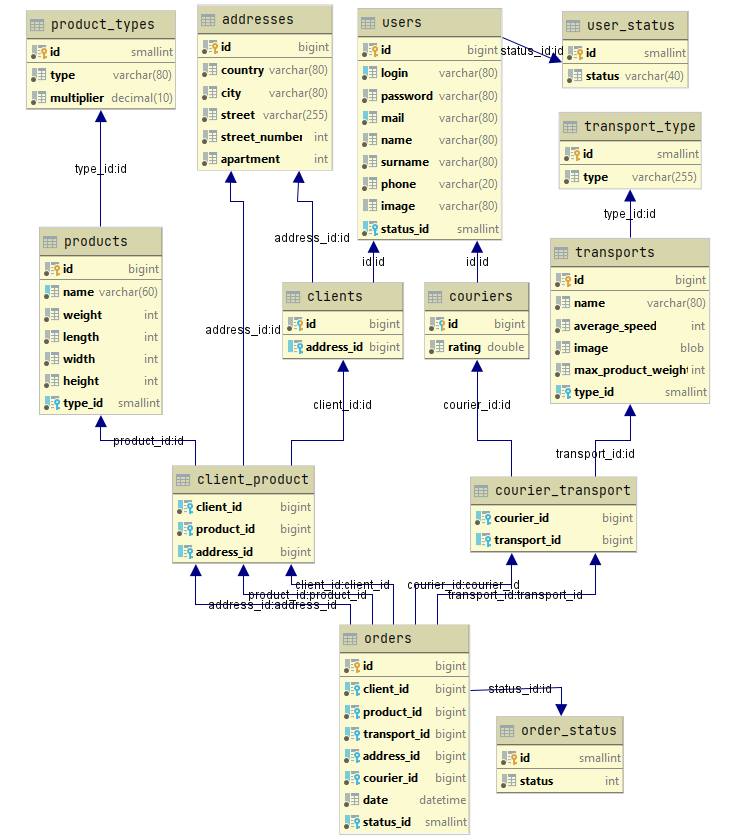
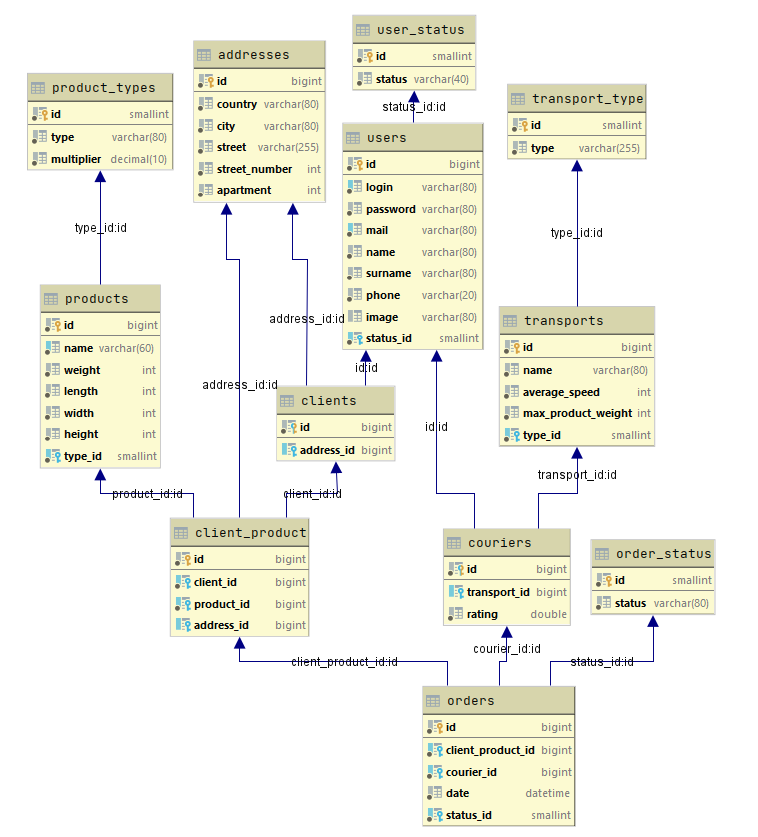
add courier orders. Commit ver 4.2

diff --git a/src/main/webapp/css/common/AdminLTE.css b/src/main/webapp/css/common/AdminLTE.css
@@ -785,6 +785,35 @@ iframe {
   color: #ffffff;
   background-color: #72afd2;
 }
+.order-courier-btn{
+  font-family: Raleway-Bold, Arial, serif;
+  font-size: 12px;
+  color: #fff;
+  line-height: 1.2;
+
+  align-self: flex-end;
+  display: -webkit-box;
+  display: -webkit-flex;
+  display: -moz-box;
+  display: -ms-flexbox;
+  display: flex;
+  justify-content: center;
+  align-items: center;
+  padding: 0 20px;
+  min-width: 150px;
+  height: 35px;
+  background-color: #333333;
+  border-radius: 27px;
+
+  -webkit-transition: all 0.4s;
+  -o-transition: all 0.4s;
+  -moz-transition: all 0.4s;
+  transition: all 0.4s;
+}
+.order-courier-btn:hover {
+  background-color: #72afd2;
+  color: #ffffff;
+}
 .signup-form-btn {
   font-family: Raleway-Bold, Arial, serif;
   font-size: 16px;

diff --git a/src/main/java/by/epam/courierexchange/model/dao/impl/ClientDaoImpl.java b/src/main/java/by/epam/courierexchange/model/dao/impl/ClientDaoImpl.java
@@ -48,7 +48,7 @@ public class ClientDaoImpl implements ClientDao {
 
     //client_product
     private static final String SQL_SELECT_ALL_CLIENT_PRODUCT="""
-            SELECT client_id, login, password, mail, users.name, surname, phone, image, status_id, 
+            SELECT client_product.id, client_id, login, password, mail, users.name, surname, phone, image, status_id, 
                 clients.address_id, client_product.address_id, country, city, street, street_number, 
                 apartment, product_id, products.name, weight, length, width, height, type_id
             FROM client_product
@@ -58,7 +58,7 @@ public class ClientDaoImpl implements ClientDao {
                 INNER JOIN clients ON client_product.client_id = clients.id
         """;
     private static final String SQL_SELECT_CLIENT_PRODUCT_BY_ID="""
-             SELECT client_id, login, password, mail, users.name, surname, phone, image, status_id, 
+             SELECT client_product.id, client_id, login, password, mail, users.name, surname, phone, image, status_id, 
                 clients.address_id, client_product.address_id, country, city, street, street_number, 
                 apartment, product_id, products.name, weight, length, width, height, type_id
             FROM client_product
@@ -291,6 +291,7 @@ public class ClientDaoImpl implements ClientDao {
         {
             while (resultSet.next()){
                 ClientProduct clientProduct = new ClientProduct();
+                clientProduct.setId(resultSet.getLong(CLIENT_PRODUCT_ID));
                 clientProduct.setClient(new Client.ClientBuilder()
                         .setBuilder(new User.UserBuilder()
                                 .setId(resultSet.getLong(CLIENT_ID))
@@ -342,6 +343,7 @@ public class ClientDaoImpl implements ClientDao {
             if(!resultSet.next()) {
                 return Optional.empty();
             }else{
+                clientProduct.setId(resultSet.getLong(CLIENT_PRODUCT_ID));
                 clientProduct.setClient(new Client.ClientBuilder()
                         .setBuilder(new User.UserBuilder()
                                 .setId(resultSet.getLong(CLIENT_ID))

diff --git a/src/main/java/by/epam/courierexchange/controller/command/impl/go/GoToCourierAllOrders.java b/src/main/java/by/epam/courierexchange/controller/command/impl/go/GoToCourierAllOrders.java
@@ -6,20 +6,18 @@ import by.epam.courierexchange.controller.command.PagePath;
 import by.epam.courierexchange.controller.command.SessionAttribute;
 import by.epam.courierexchange.exception.DaoException;
 import by.epam.courierexchange.model.dao.impl.ClientDaoImpl;
-import by.epam.courierexchange.model.entity.Client;
 import by.epam.courierexchange.model.entity.ClientProduct;
 import by.epam.courierexchange.model.entity.User;
 import jakarta.servlet.http.HttpServletRequest;
 import jakarta.servlet.http.HttpSession;
 
 import java.util.List;
-import java.util.Optional;
 
 import static by.epam.courierexchange.controller.command.CommandResult.ResponseType.FORWARD;
 import static by.epam.courierexchange.controller.command.PagePath.ERROR_PAGE;
 import static by.epam.courierexchange.controller.command.RequestAttribute.EXCEPTION;
 
-public class GoToUserAllOrders implements Command {
+public class GoToCourierAllOrders implements Command {
     @Override
     public CommandResult execute(HttpServletRequest request) {
         ClientDaoImpl clientDao = ClientDaoImpl.getInstance();
@@ -31,7 +29,7 @@ public class GoToUserAllOrders implements Command {
             try {
                 clientProducts = clientDao.selectAllClientProduct();
                 session.setAttribute(SessionAttribute.CLIENT_PRODUCT, clientProducts);
-                commandResult = new CommandResult(PagePath.USER_ALL_ORDERS_PAGE, FORWARD);
+                commandResult = new CommandResult(PagePath.COURIER_ALL_ORDERS_PAGE, FORWARD);
             } catch (DaoException e) {
                 request.setAttribute(EXCEPTION, e);
                 commandResult = new CommandResult(ERROR_PAGE, FORWARD);

diff --git a/src/main/java/by/epam/courierexchange/model/entity/ClientProduct.java b/src/main/java/by/epam/courierexchange/model/entity/ClientProduct.java
@@ -1,9 +1,18 @@
 package by.epam.courierexchange.model.entity;
 
 public class ClientProduct extends AbstractEntity{
+    private long id;
     private Client client;
     private Product product;
     private Address address;
+
+    public long getId() {
+        return id;
+    }
+
+    public void setId(long id) {
+        this.id = id;
+    }
 
     public Address getAddress() {
         return address;
@@ -40,6 +49,9 @@ public class ClientProduct extends AbstractEntity{
 
         ClientProduct that = (ClientProduct) o;
 
+        if (id != that.id) {
+            return false;
+        }
         if (client != null ? !client.equals(that.client) : that.client != null) {
             return false;
         }
@@ -51,7 +63,8 @@ public class ClientProduct extends AbstractEntity{
 
     @Override
     public int hashCode() {
-        int result = client != null ? client.hashCode() : 0;
+        int result = (int) (id ^ (id >>> 32));
+        result = 31 * result + (client != null ? client.hashCode() : 0);
         result = 31 * result + (product != null ? product.hashCode() : 0);
         result = 31 * result + (address != null ? address.hashCode() : 0);
         return result;

diff --git a/src/main/java/by/epam/courierexchange/controller/command/CommandProvider.java b/src/main/java/by/epam/courierexchange/controller/command/CommandProvider.java
@@ -2,6 +2,7 @@ package by.epam.courierexchange.controller.command;
 
 import by.epam.courierexchange.controller.command.impl.*;
 import by.epam.courierexchange.controller.command.impl.client.*;
+import by.epam.courierexchange.controller.command.impl.courier.TakeCourierOrder;
 import by.epam.courierexchange.controller.command.impl.courier.UpdateCourierTranposrt;
 import by.epam.courierexchange.controller.command.impl.go.*;
 import by.epam.courierexchange.controller.command.impl.user.*;
@@ -29,7 +30,10 @@ public class CommandProvider {
         commands.put(CHANGE_USER_ROLE, new ChangeRole());
         commands.put(UPDATE_CLIENT_ADDRESS, new UpdateClientAddress());
         commands.put(UPDATE_COURIER_TRANSPORT, new UpdateCourierTranposrt());
+        commands.put(TAKE_COURIER_ORDER, new TakeCourierOrder());
 
+        commands.put(GO_TO_COURIER_ORDER, new GoToCourierOrder());
+        commands.put(GO_TO_COURIER_ALL_ORDERS, new GoToCourierAllOrders());
         commands.put(GO_TO_COURIER_TRANSPORT, new GoToCourierTransport());
         commands.put(GO_TO_CLIENT_ADDRESS, new GoToClientAddress());
         commands.put(GO_TO_NEW_PASS, new GoToNewPassword());

diff --git a/src/main/java/by/epam/courierexchange/controller/command/impl/courier/TakeCourierOrder.java b/src/main/java/by/epam/courierexchange/controller/command/impl/courier/TakeCourierOrder.java
@@ -1,0 +1,15 @@
+package by.epam.courierexchange.controller.command.impl.courier;
+
+import by.epam.courierexchange.controller.command.Command;
+import by.epam.courierexchange.controller.command.CommandResult;
+import by.epam.courierexchange.controller.command.PagePath;
+import by.epam.courierexchange.controller.command.RequestParameter;
+import jakarta.servlet.http.HttpServletRequest;
+
+public class TakeCourierOrder implements Command {
+    @Override
+    public CommandResult execute(HttpServletRequest request) {
+        String clientOrderId = request.getParameter(RequestParameter.CLIENT_ORDER);
+        return new CommandResult(PagePath.COURIER_ORDER, CommandResult.ResponseType.FORWARD);
+    }
+}

diff --git a/src/main/java/by/epam/courierexchange/controller/command/impl/go/GoToCourierOrder.java b/src/main/java/by/epam/courierexchange/controller/command/impl/go/GoToCourierOrder.java
@@ -1,0 +1,13 @@
+package by.epam.courierexchange.controller.command.impl.go;
+
+import by.epam.courierexchange.controller.command.Command;
+import by.epam.courierexchange.controller.command.CommandResult;
+import by.epam.courierexchange.controller.command.PagePath;
+import jakarta.servlet.http.HttpServletRequest;
+
+public class GoToCourierOrder implements Command {
+    @Override
+    public CommandResult execute(HttpServletRequest request) {
+        return new CommandResult(PagePath.COURIER_ORDER, CommandResult.ResponseType.FORWARD);
+    }
+}

diff --git a/src/main/java/by/epam/courierexchange/controller/command/PagePath.java b/src/main/java/by/epam/courierexchange/controller/command/PagePath.java
@@ -14,6 +14,8 @@ public final class PagePath {
     public static final String ADMIN_PAGE = "jsp/admin/admin.jsp";
 
     public static final String COURIER_TRANSPORT = "jsp/courier/transport.jsp";
+    public static final String COURIER_ALL_ORDERS_PAGE = "jsp/courier/orders.jsp";
+    public static final String COURIER_ORDER = "jsp/courier/my_order.jsp";
 
     public static final String NEW_ORDER_PAGE = "jsp/user/new_order.jsp";
     public static final String USER_ALL_ORDERS_PAGE = "jsp/user/orders.jsp";

diff --git a/src/main/java/by/epam/courierexchange/model/dao/ColumnName.java b/src/main/java/by/epam/courierexchange/model/dao/ColumnName.java
@@ -35,6 +35,7 @@ public class ColumnName {
     public static final String CLIENTS_ADDRESS_ID = "clients.address_id";
     public static final String CLIENT_PRODUCT_ADDRESS_ID = "client_product.address_id";
     public static final String PRODUCT_POINT_NAME = "products.name";
+    public static final String CLIENT_PRODUCT_ID = "client_product.id";
     //couriers
     public static final String COURIER_RATING = "rating";
     //transport

diff --git a/src/main/java/by/epam/courierexchange/controller/command/RequestParameter.java b/src/main/java/by/epam/courierexchange/controller/command/RequestParameter.java
@@ -24,6 +24,7 @@ public class RequestParameter {
     public static final String APARTMENT = "apartment";
     public static final String SPEED = "speed";
     public static final String TRANSPORT_TYPE = "transport_type";
+    public static final String CLIENT_ORDER = "client_order";
 
     private RequestParameter(){}
 }

diff --git a/src/main/java/by/epam/courierexchange/controller/command/CommandType.java b/src/main/java/by/epam/courierexchange/controller/command/CommandType.java
@@ -15,7 +15,10 @@ public enum CommandType {
     CHANGE_USER_ROLE,
     UPDATE_CLIENT_ADDRESS,
     UPDATE_COURIER_TRANSPORT,
+    TAKE_COURIER_ORDER,
 
+    GO_TO_COURIER_ORDER,
+    GO_TO_COURIER_ALL_ORDERS,
     GO_TO_COURIER_TRANSPORT,
     GO_TO_CLIENT_ADDRESS,
     GO_TO_NEW_PASS,
